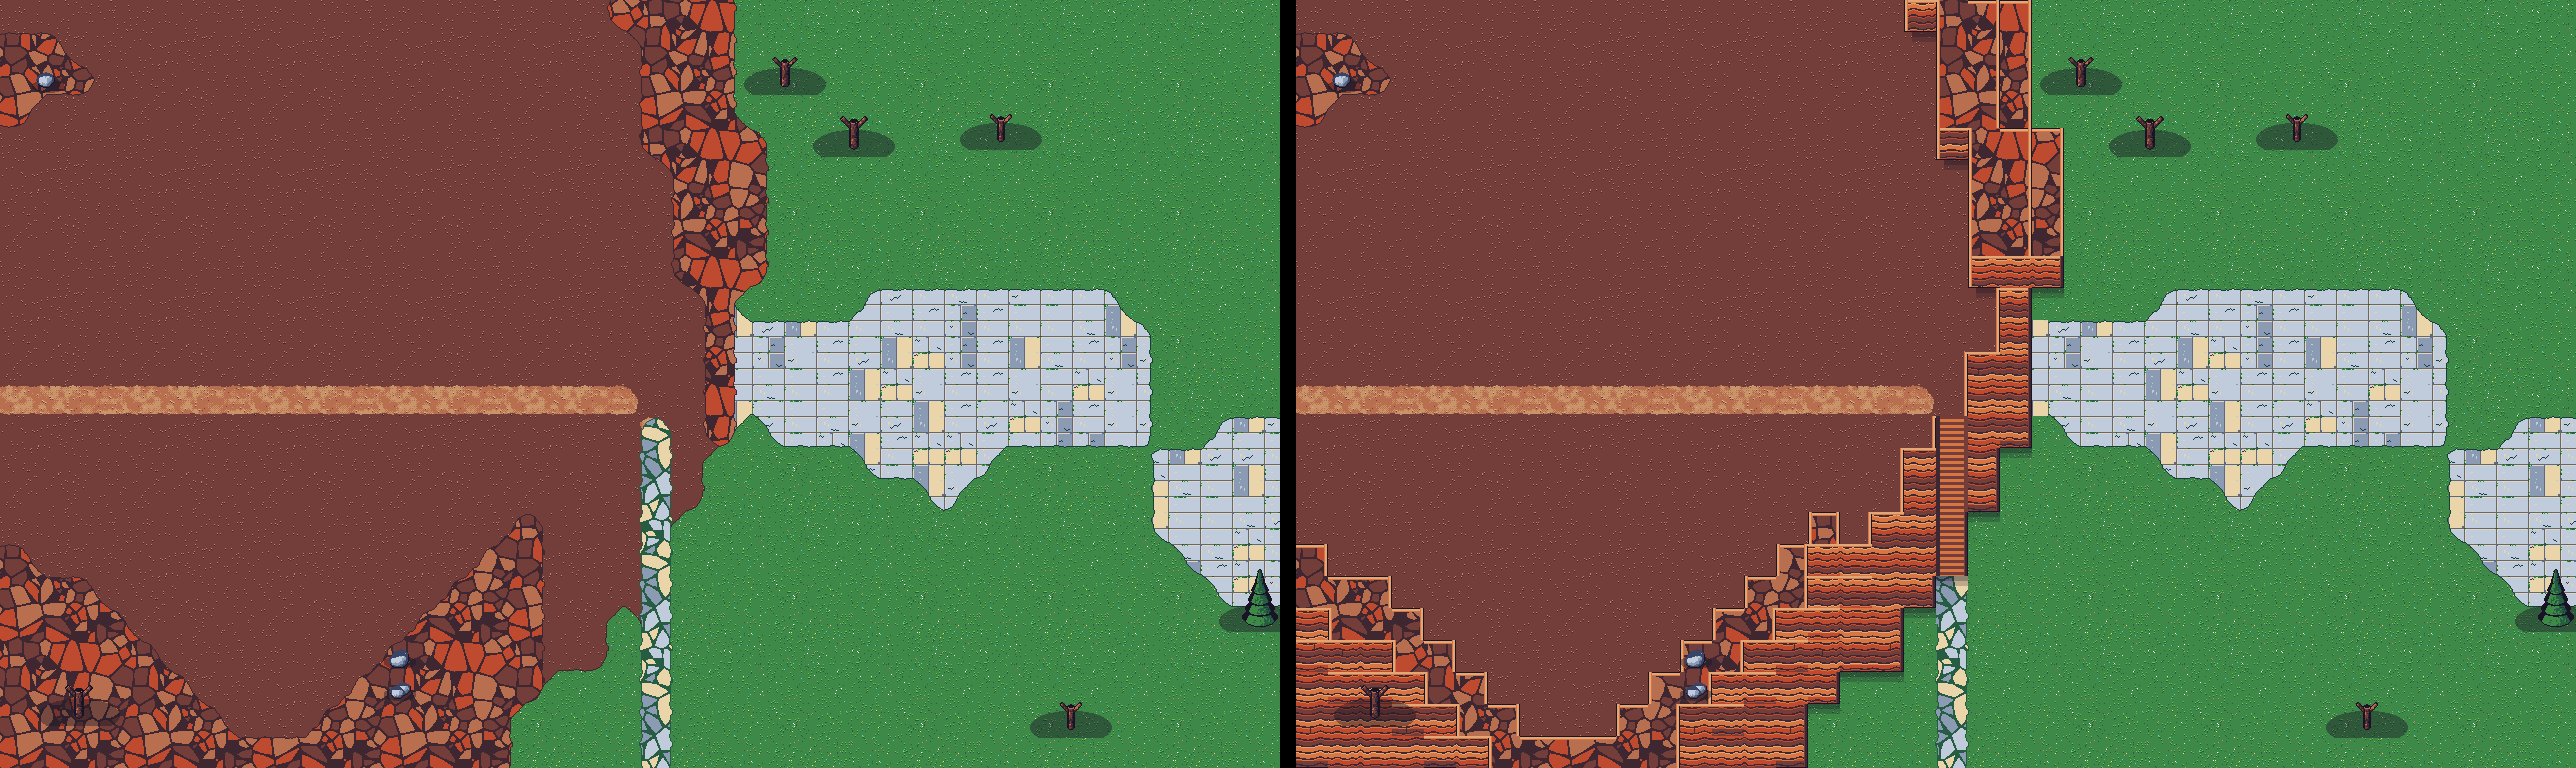
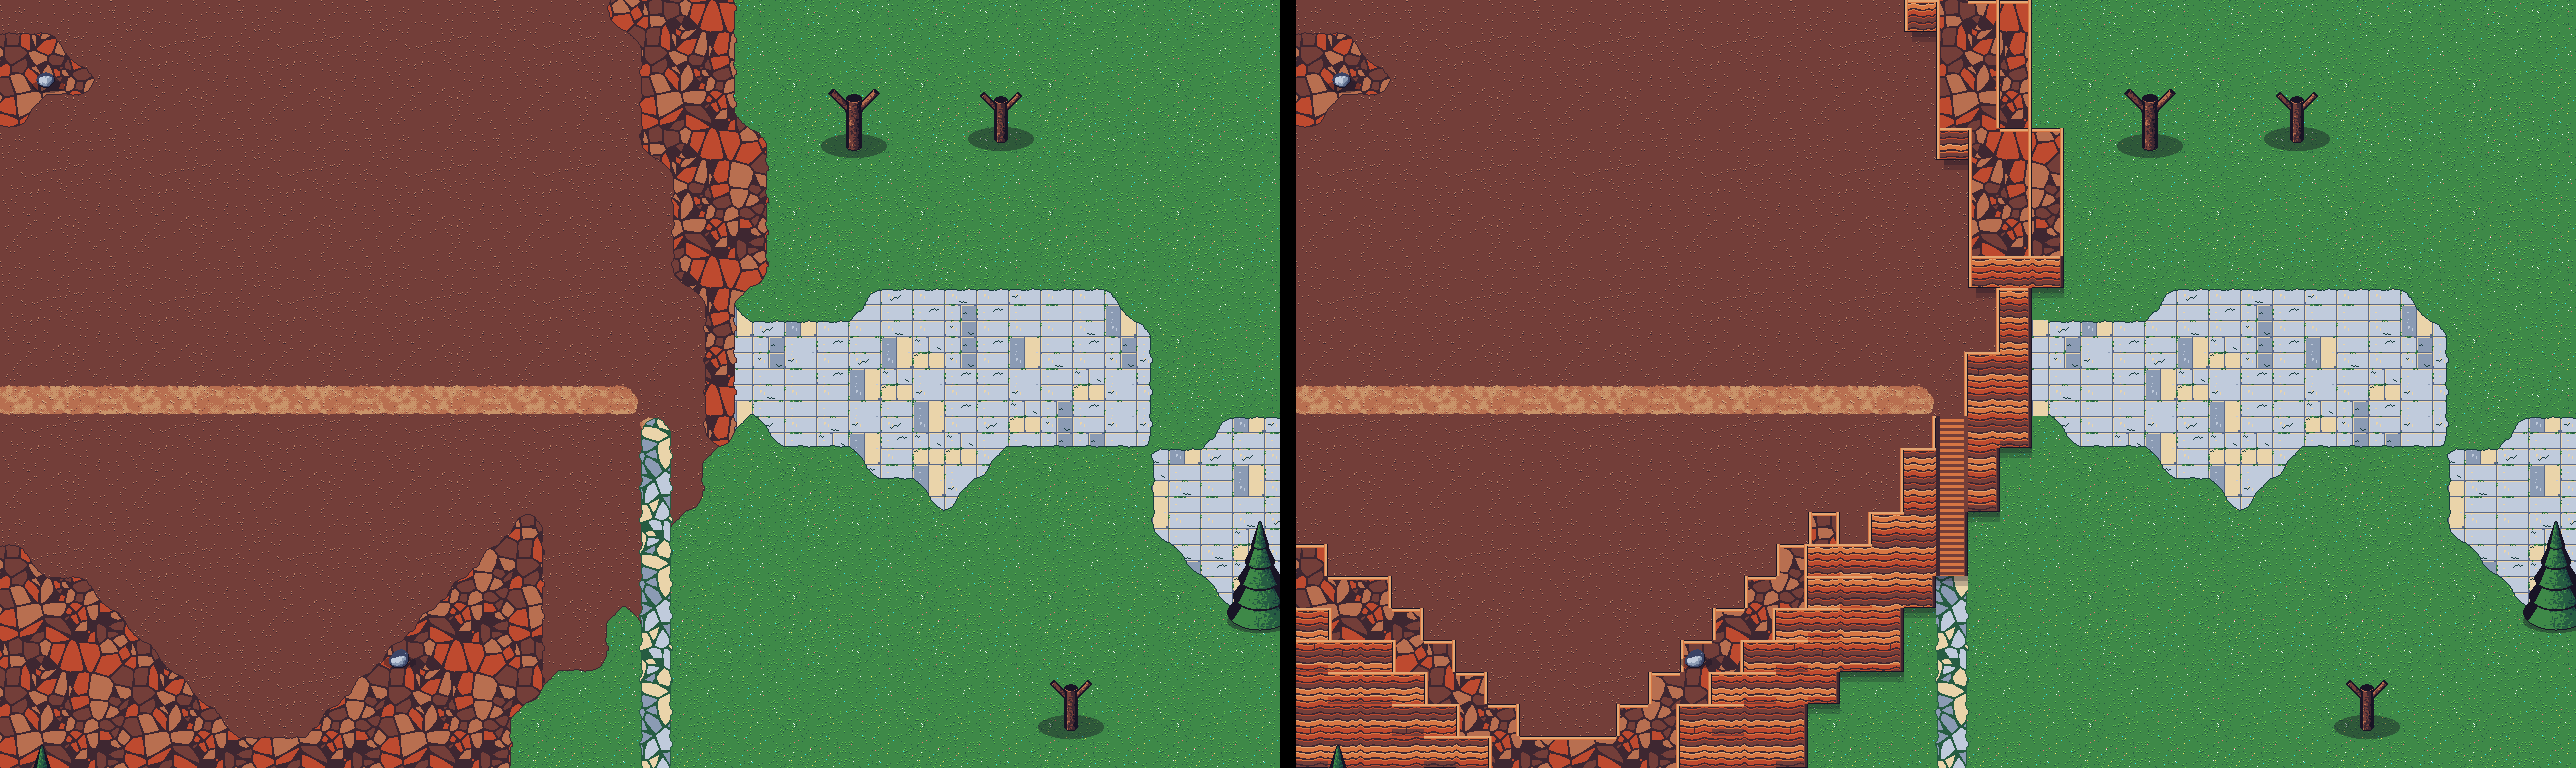
Revisione arte 3.3: alberi alti 2-3 tile, boschi diradati, niente alberi sul ciglio
Claude-Session: https://claude.ai/code/session_014ycMSkFAn8ixUvbSfrqtAR

diff --git a/tools/art/build_world.py b/tools/art/build_world.py
@@ -752,8 +752,26 @@ def genera(seed):
         if not cambiate:
             break
     applica_spostati(luoghi, villaggi, sotto)
+    ciglio = faccia | sposta(faccia, -1, 0)                # sulla parete o sul ciglio sopra: alberi alti sporgerebbero
+    w.objects = [o for o in dirada(w.objects, 1.8)
+                 if not (o["type"] in ("tree", "rock") and ciglio[int(o["y"]), int(o["x"])])]
     w.sentieri = sentieri(w, strade, list(luoghi.values()) + list(villaggi.values()), faccia)
     return w, luoghi, villaggi, sotto
+
+
+def dirada(oggetti, r):
+    """Alberi alti 2-3 tile (revisione 3.3): un albero resta solo se nessun albero gia' tenuto e' piu' vicino di r
+    caselle, cosi' le chiome grandi non fanno un tappeto unico. A fine generazione: i numeri casuali non cambiano."""
+    tenuti, griglia = [], {}
+    for o in oggetti:
+        if o["type"] == "tree":
+            cx, cy = int(o["x"] // r), int(o["y"] // r)
+            vicini = [q for a in (-1, 0, 1) for b in (-1, 0, 1) for q in griglia.get((cx + a, cy + b), ())]
+            if any((q["x"] - o["x"]) ** 2 + (q["y"] - o["y"]) ** 2 < r * r for q in vicini):
+                continue
+            griglia.setdefault((cx, cy), []).append(o)
+        tenuti.append(o)
+    return tenuti
 
 
 PIAZZE = ["lastre_rovine", "marmo", "ghiaia", "stone", "lastre_chiare", "ciottoli_scuri"]

diff --git a/tools/art/forge3d/worldrender.py b/tools/art/forge3d/worldrender.py
@@ -17,8 +17,9 @@ def object_sprite(o, S=TILE):
         return _cache[key]
     k = S / 32.0
     if t == "tree":
-        r = tree(o["kind"], seed=o["seed"], leaf=o["leaf"], size=o.get("size", 1.0) * 1.9 * k)
-        cw, ch, foot = int(120 * k), int(150 * k), 0.93
+        # alberi alti 2-3 tile (revisione 3.3): prima 1,4 tile, alti come il personaggio
+        r = tree(o["kind"], seed=o["seed"], leaf=o["leaf"], size=o.get("size", 1.0) * 3.6 * k)
+        cw, ch, foot = int(220 * k), int(260 * k), 0.9
     elif t == "bush":
         r = bush(o["seed"], o.get("mat", "leaf"), o.get("berries"), size=1.4 * k)
         cw, ch, foot = int(48 * k), int(48 * k), 0.8
@@ -37,7 +38,8 @@ def object_sprite(o, S=TILE):
         cw, ch, foot = S, S, 0.5
     else:
         return None
-    img = render(r.instances({}, 180), size=(cw, ch), ppu=1.0, foot=(0.5, foot), shadow=(t not in ("bridge", "scoglio")))
+    img = render(r.instances({}, 180), size=(cw, ch), ppu=1.0, foot=(0.5, foot), shadow=(t not in ("bridge", "scoglio")),
+                 shadow_r=(0.15, 0.055) if t == "tree" else (0.34, 0.14))     # ombra grande quanto la chioma
     if t == "scoglio":
         img = _sommerso(img, int(ch * foot) - max(2, int(3 * k)), o["seed"])
     _cache[key] = (img, cw // 2, int(ch * foot))

diff --git a/arte/revisione_arte.md b/arte/revisione_arte.md
@@ -205,11 +205,15 @@ Legenda: 🔴 alta (rovina la leggibilità o va decisa prima del Blocco C/D) ·
   frontale alta 1–2 tile, bordo superiore e ombra portata; i livelli d'altezza come
   mappa nei dati di `world.json`. Da fare prima della rifinitura delle Marche (US-8B15).
 
-### 🟠 3.3 Scala degli oggetti: gli alberi sono alti come Enel
+### ✅ 3.3 Scala degli oggetti: gli alberi sono alti come Enel — FATTO lato arte (2026-10-14)
 - **Cosa:** gli alberi sono alti 1–1,5 tile, gli alberi secchi meno di Enel: il bosco
   sembra un prato di cespugli.
 - **Come correggere:** alberi alti 2–4 tile, chioma che copre il personaggio quando passa
   dietro (ordinamento per profondità), collisione solo sul tronco.
+- **FATTO lato arte (2026-10-14):** alberi alti 2–3 tile (querce 2,6, pini 2,8, betulle 2,4, palme 1,9,
+  secchi 1,6), ombra grande quanto la chioma, boschi diradati (un albero ogni 1,8 caselle almeno), niente
+  alberi o rocce sulle pareti e sul ciglio sopra. **Resta per il gioco** (caricatore Godot, US-8B12):
+  ordinamento per profondità dai piedi e collisione solo sul tronco.
 
 ### 🟠 3.4 Vegetazione non legata alla regione
 - **Cosa:** alla galleria di alberi (Valle, "giungla temperata con liane e felci giganti")
@@ -364,7 +368,7 @@ l'HUD** (dopo US-8B01 le scritte sono lisce).
    dei VFX (4.1).~~ **Fatto il 2026-10-14:** mondo luminoso, vale `data/vfx.json`.
 2. **Generatore (`forge3d`):** ~~pareti e altezze (3.2), bordi dritti per i terreni
    costruiti (3.6), coste (3.9), acqua del sottosuolo (3.10), pavimenti (3.7), strade (3.8)~~
-   fatti, e anche texture e mare (3.5); resta la scala degli alberi (3.3). Poi si rigenera il
+   fatti, e anche texture e mare (3.5) e alberi (3.3, lato arte). Poi si rigenera il
    mondo con lo stesso seed e si confronta il prima e il dopo.
 3. **Blocco C** con i punti 1.1 e 1.4–1.13 scritti nei brief: Enel (US-8B30), nemico
    (US-8B31, prima possibile per 1.2), pet (US-8B32).
